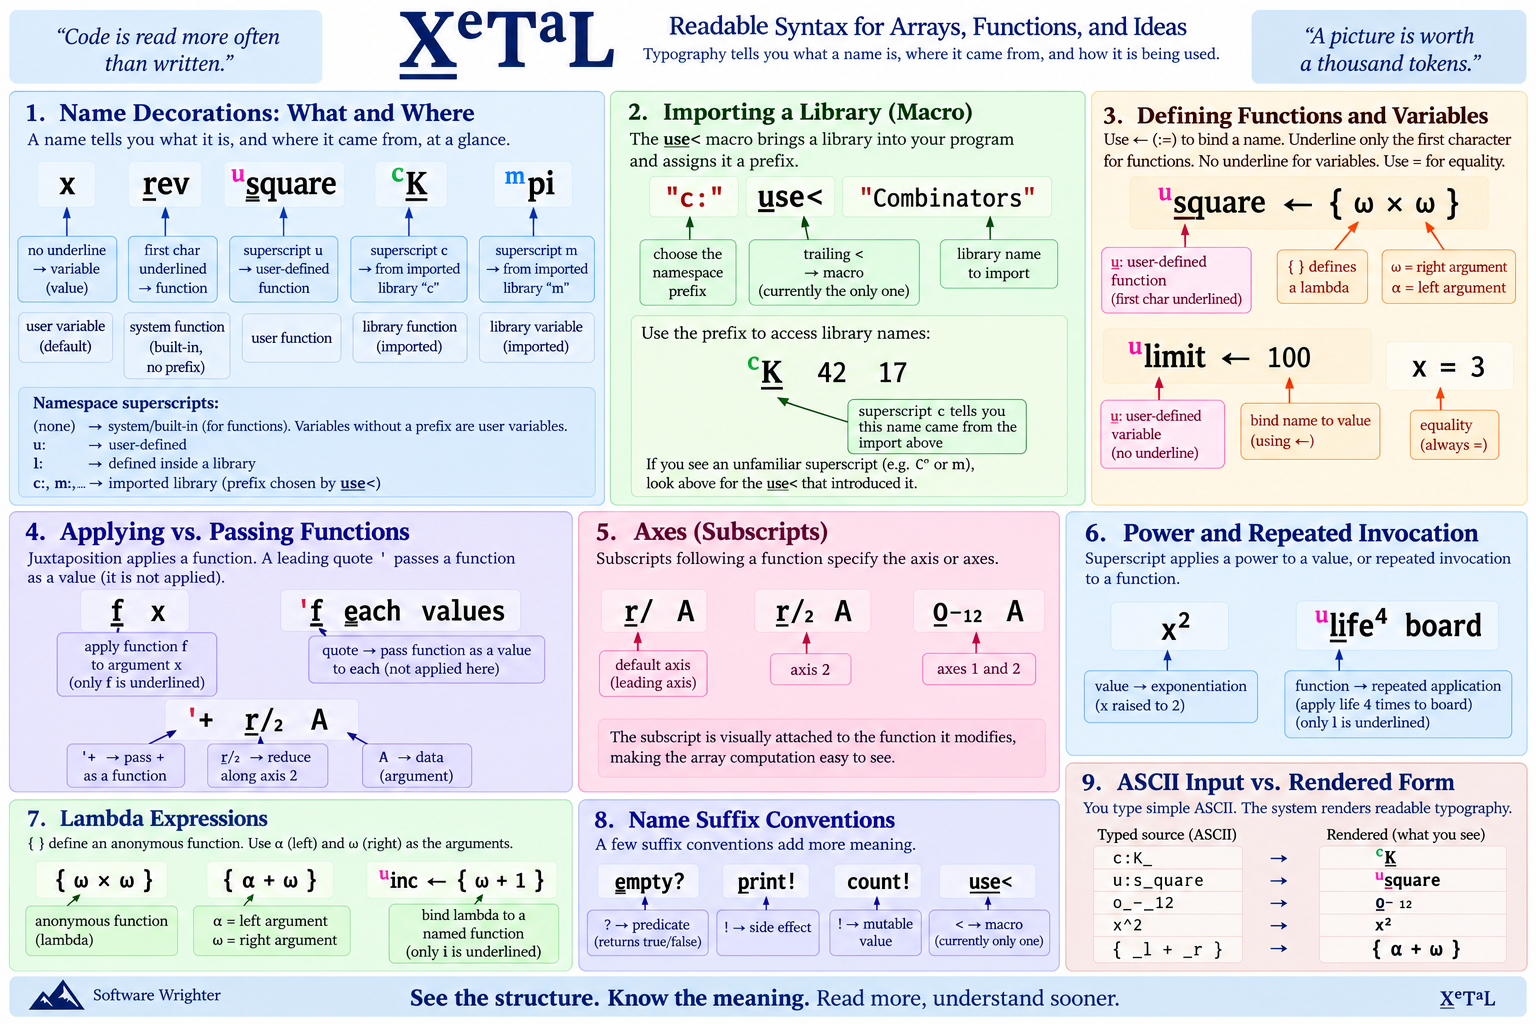
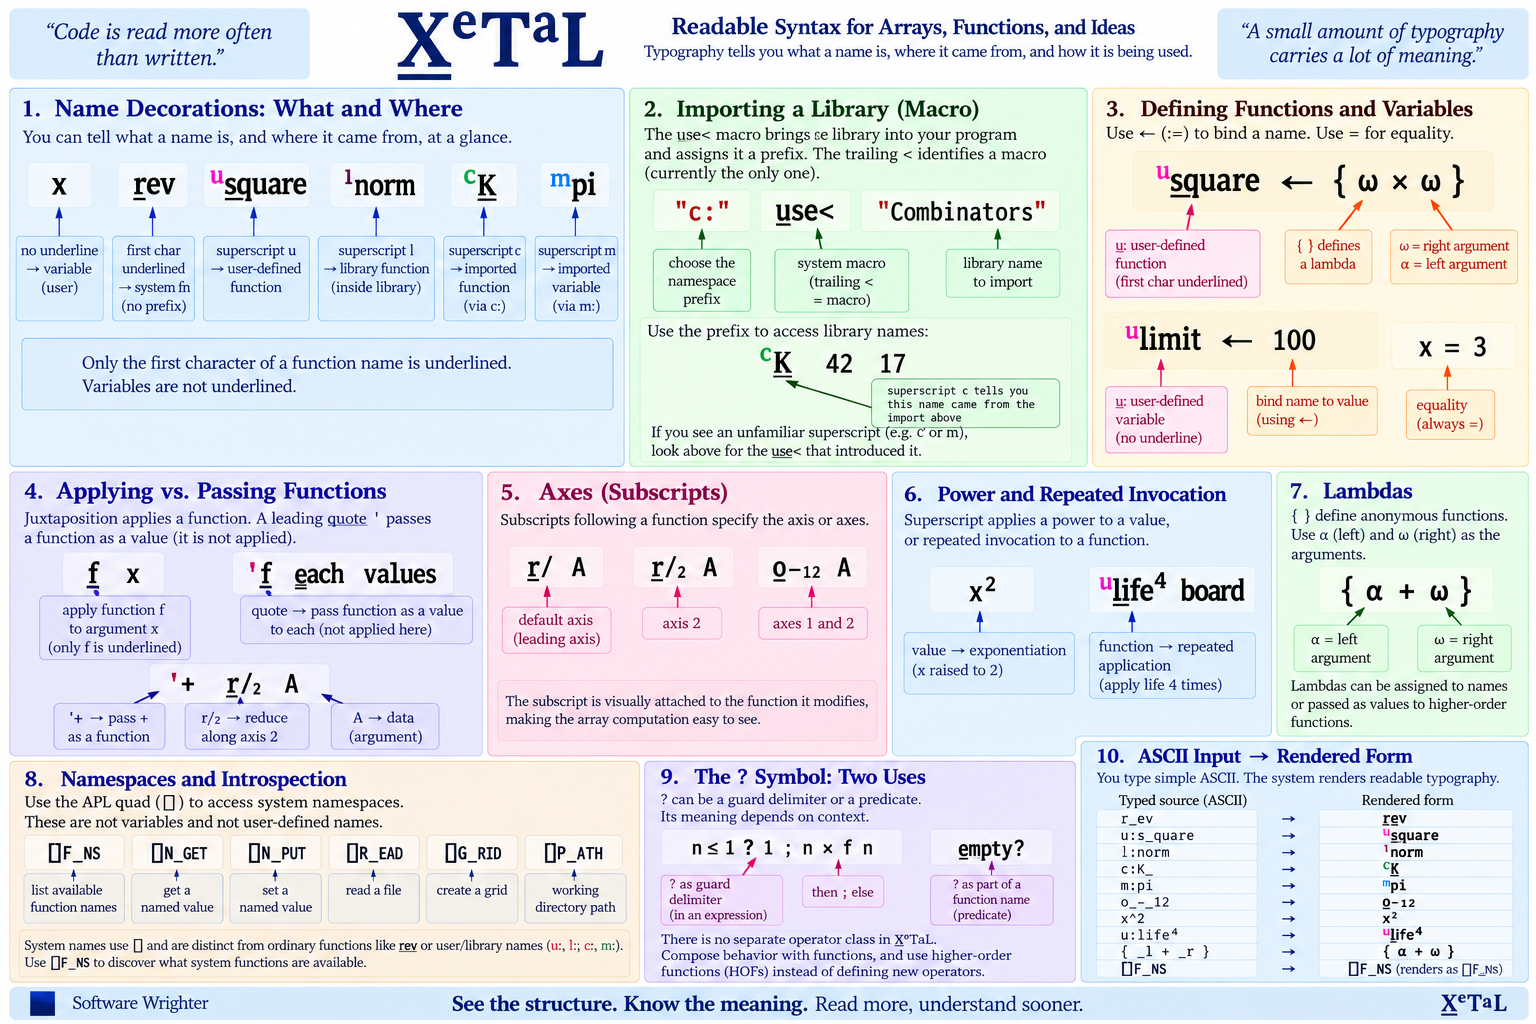
readme: the updated reading-XeTaL-syntax guide (the user's image)
images/reading-xetal-syntax.png replaced with the user's updated
version (now with system names and the two uses of ?); the README's
description follows.

diff --git a/README.md b/README.md
@@ -81,7 +81,7 @@ How to read it, on one page: what each decoration says about a name
 passing a function, axes, powers, lambdas, the suffixes, and what you
 type for each:
 
-![Reading XeTaL syntax: name decorations, importing a library, defining functions and variables, applying vs. passing functions, axes, power and repeated invocation, lambdas, name suffixes, and ASCII input vs. the rendered form](images/reading-xetal-syntax.png)
+![Reading XeTaL syntax: name decorations, importing a library, defining functions and variables, applying vs. passing functions, axes, power and repeated invocation, lambdas, system names, the two uses of ?, and ASCII input vs. the rendered form](images/reading-xetal-syntax.png)
 
 The acceptance test is Conway's Life in one line
 (`spec/integration/life-blinker.case`, checked against the sw-apl
